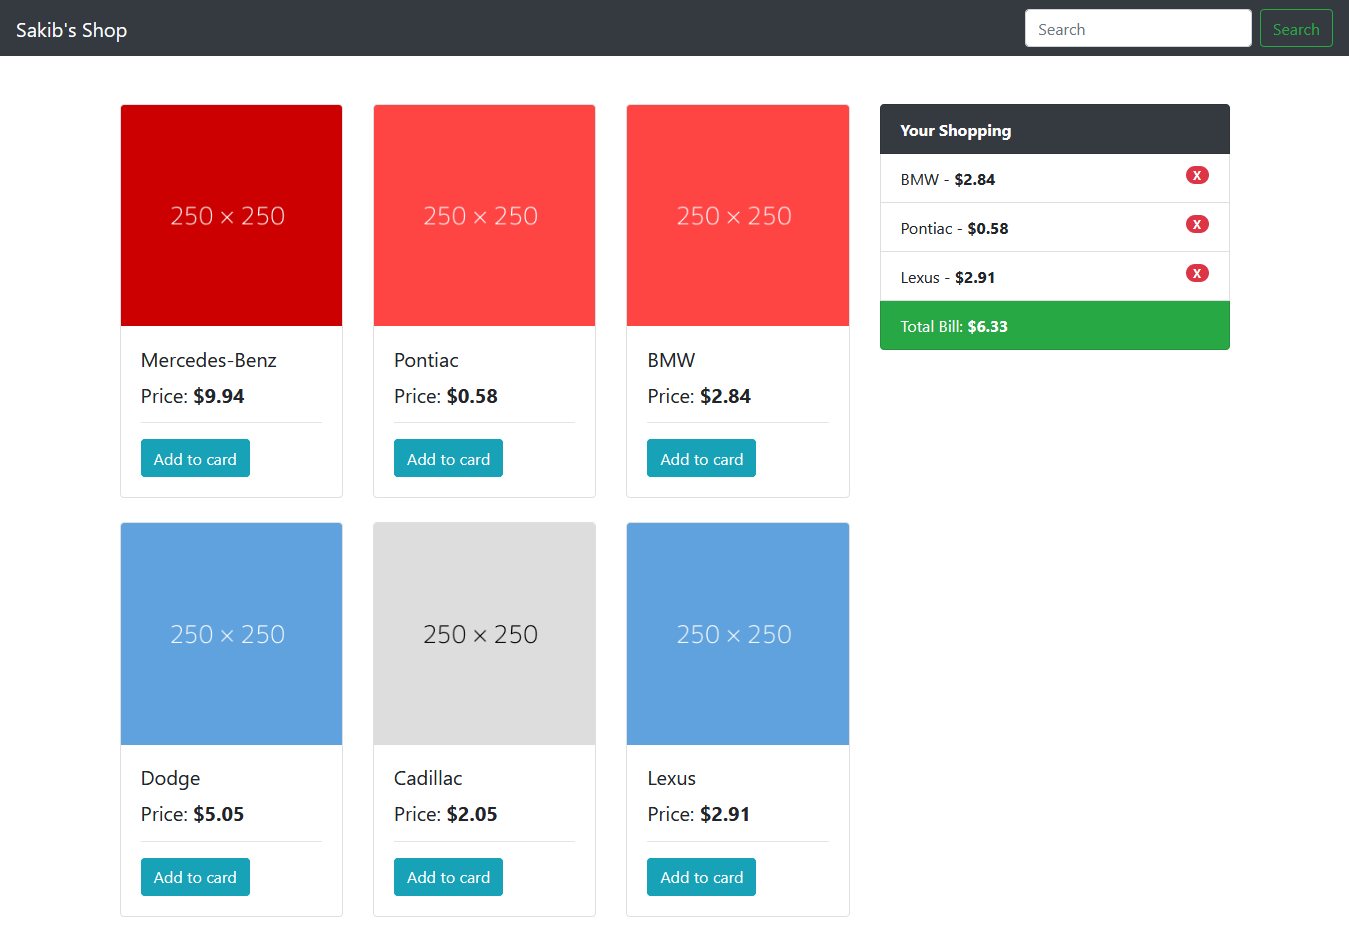
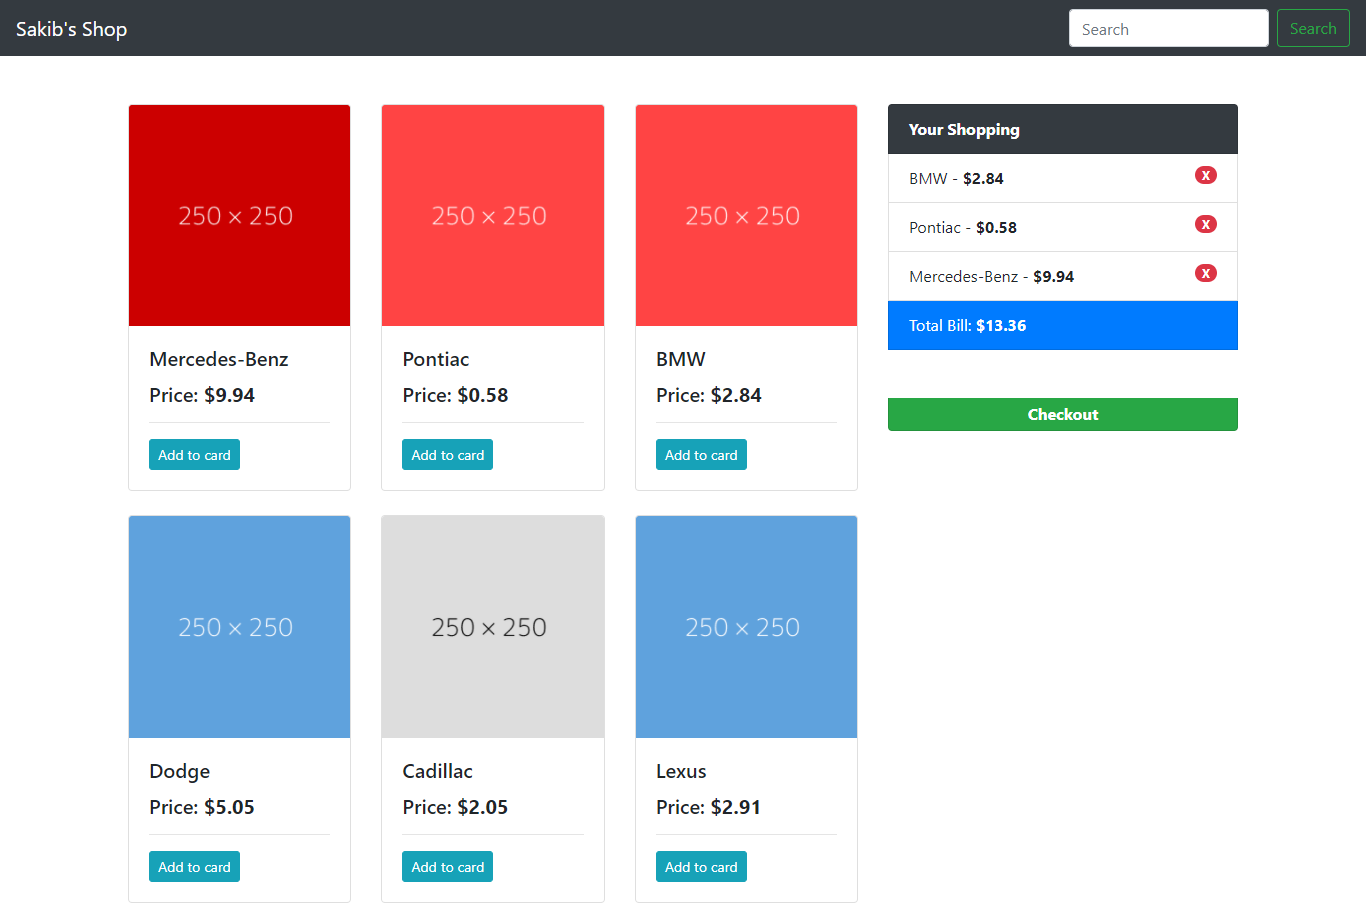
screenshot added

diff --git a/src/components/Cart.vue b/src/components/Cart.vue
@@ -19,10 +19,11 @@
     <li
       class="list-group-item bg-success text-white text-center mt-5 p-1"
       v-if="carts.length > 0"
+      style="cursor: pointer"
+      @click="checkout"
     >
-      <span style="cursor: pointer" @click="checkout"
-        ><strong>Checkout</strong></span
-      >
+      <strong>Checkout</strong>
+      
     </li>
   </ul>
 </template>
